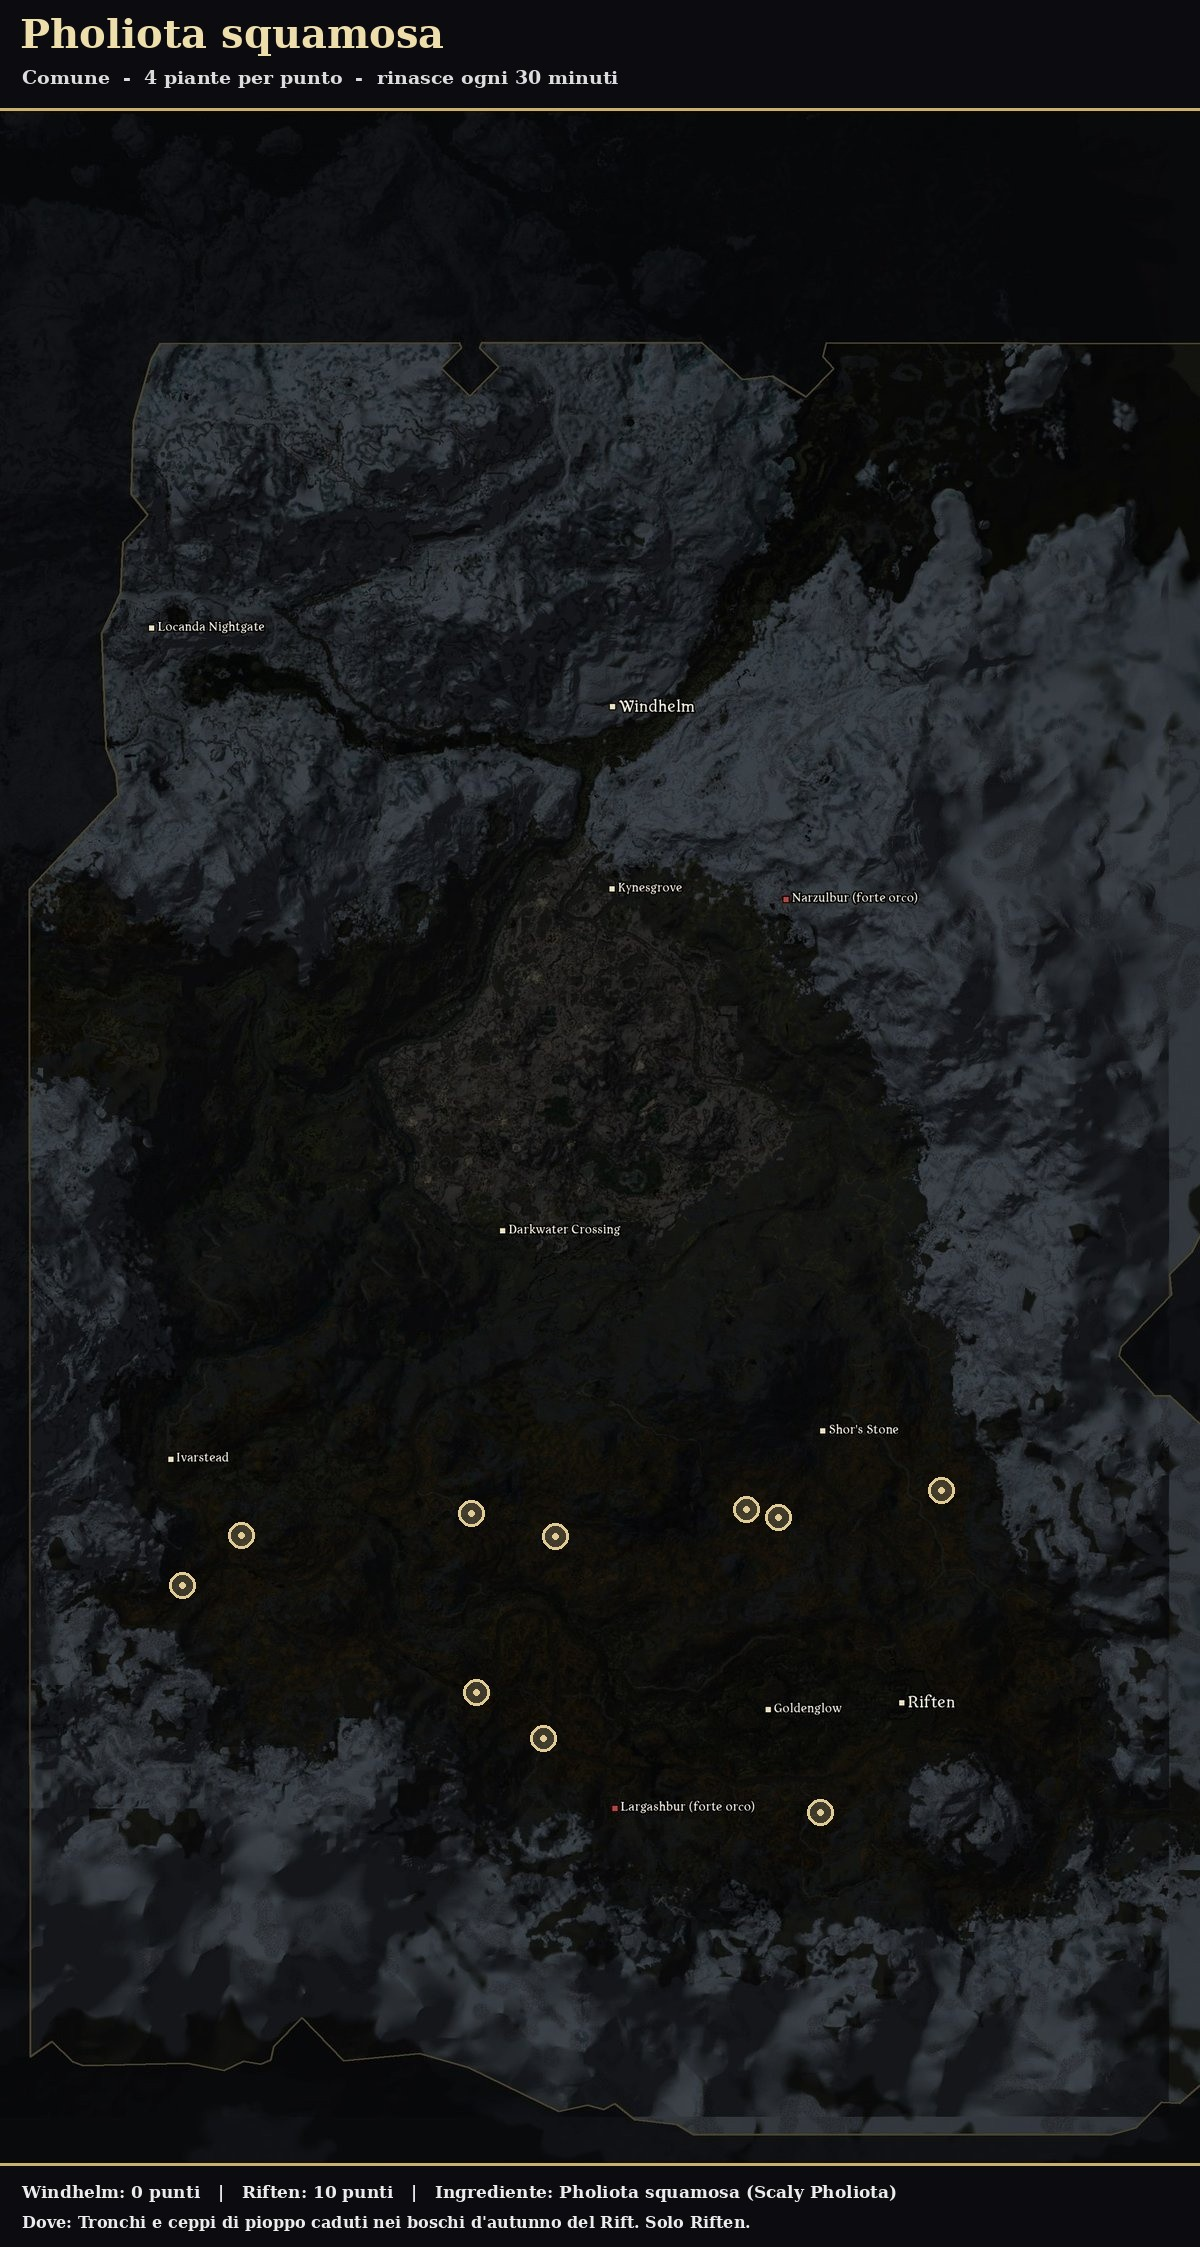
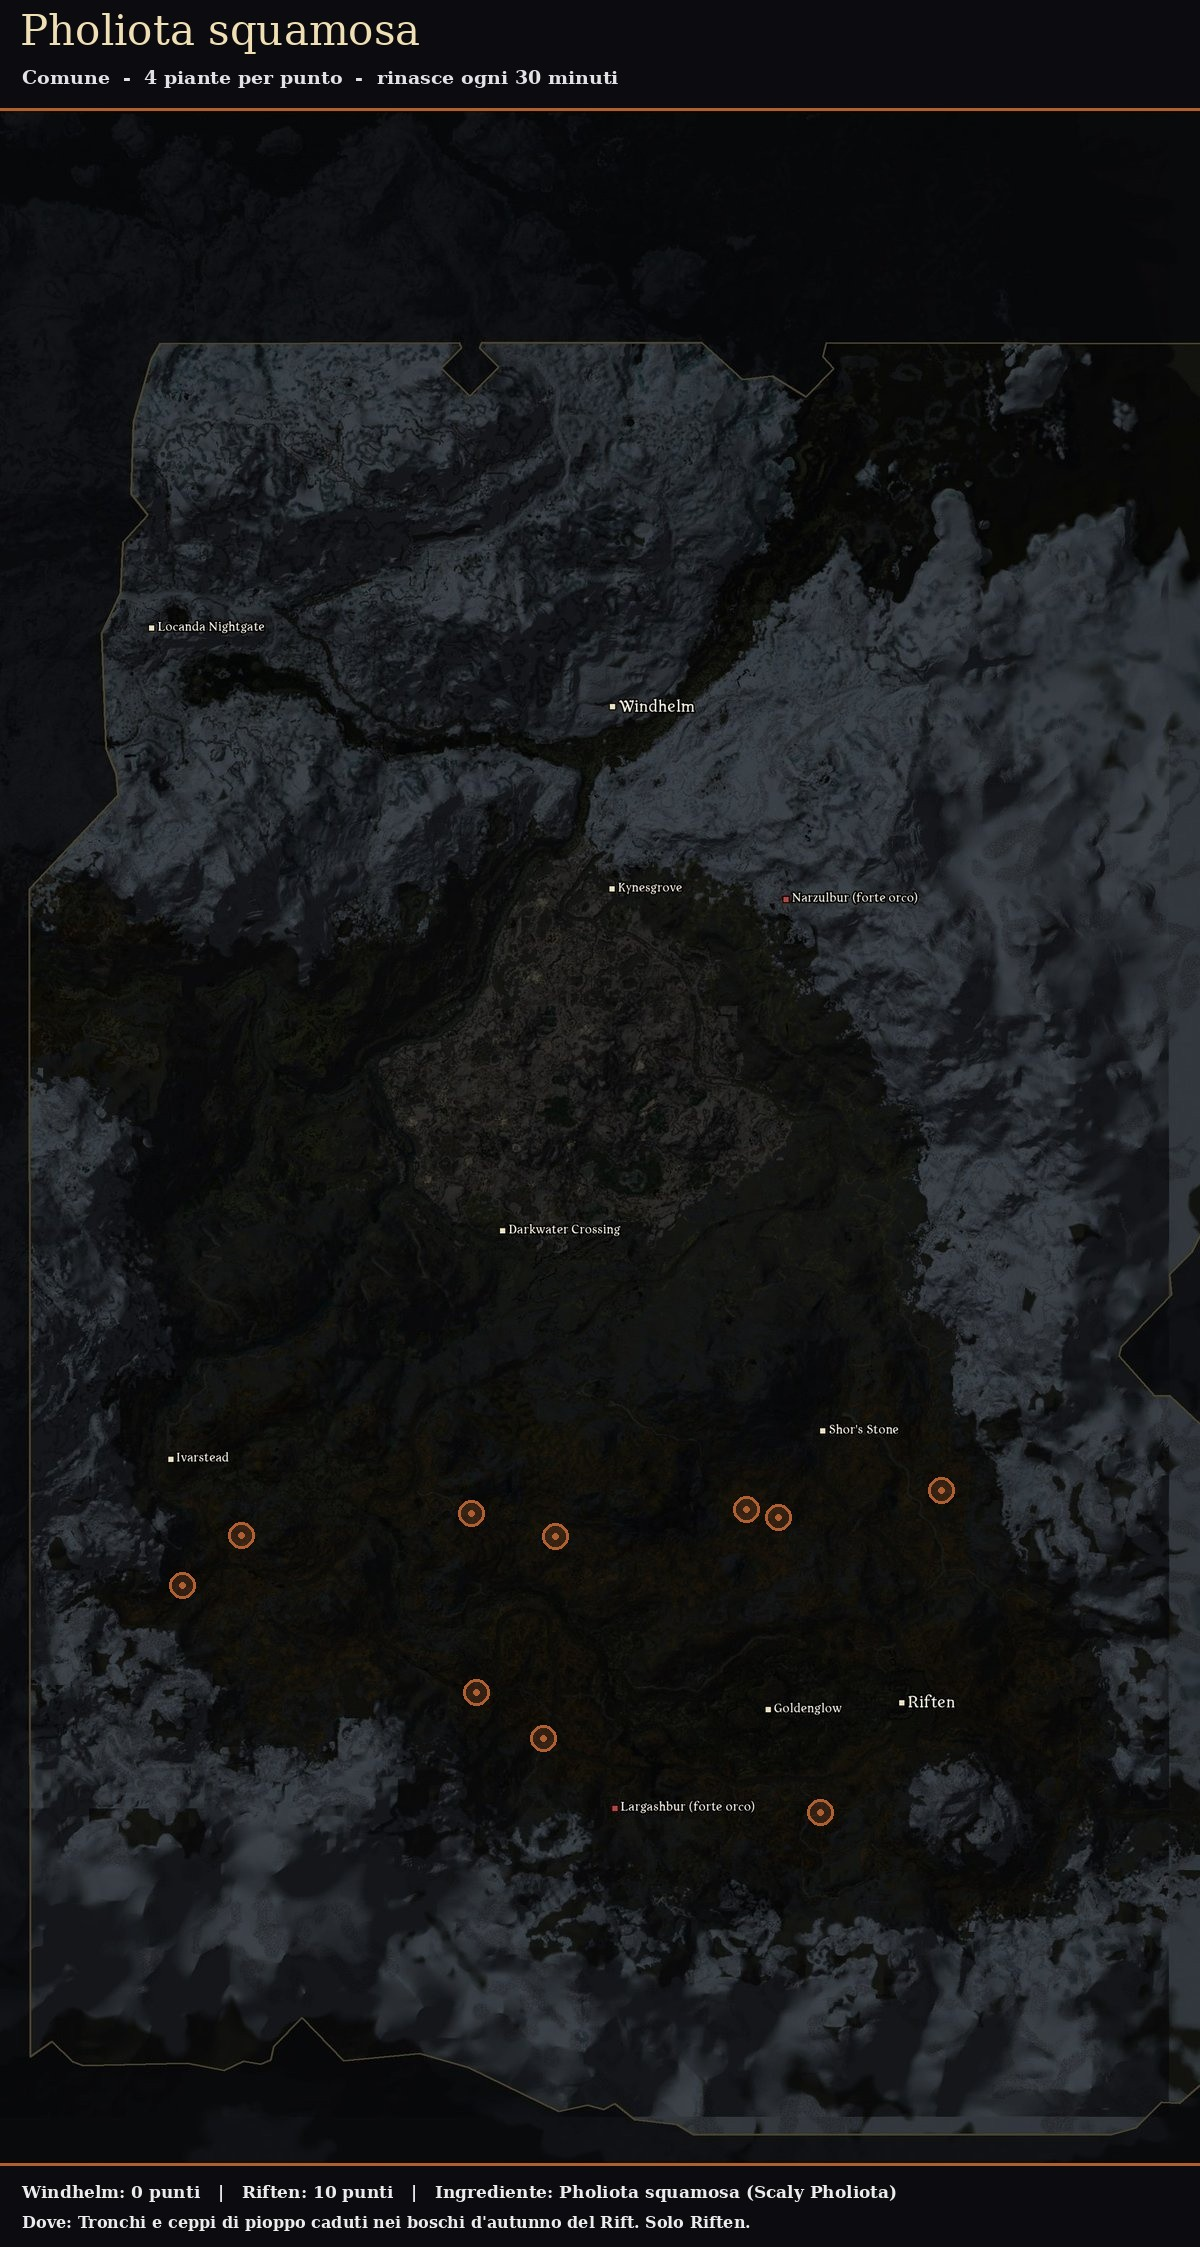
.

diff --git a/team/david/db/tools/disegna_mappe_ingredienti.py b/team/david/db/tools/disegna_mappe_ingredienti.py
@@ -1,4 +1,4 @@
-"""Disegna le mappe degli spawn degli ingredienti, nello stile di team/davide/mappe-spawn.
+"""Disegna le mappe degli spawn degli ingredienti, nello stesso stile di team/davide/mappe-spawn.
 
 Uso (dalla cartella tools/):
     python3 disegna_mappe_ingredienti.py ../../../..
@@ -8,6 +8,10 @@ Legge team/david/db/ingredient_spawns.json e la mappa di base team/david/mappe-i
   - NN_<ingrediente>.jpg   una mappa per ingrediente (rare e leggendarie con la fascia "SOLO STAFF")
   - 00_tutti_pubblica.jpg  comuni e non comuni (si può mettere sul Discord)
   - 00_tutti_staff.jpg     tutti, rare e leggendarie comprese (solo staff)
+
+Stile come le mappe degli animali: ogni ingrediente ha il suo colore (COLORI qui sotto), usato per le
+due righe orizzontali e per i cerchi; nelle mappe riassuntive ogni ingrediente ha il suo colore e
+la legenda in basso.
 Conversione coordinate di gioco -> pixel: ricavata dai cerchi delle mappe di Davide (errore < 1 pixel).
 """
 import json
@@ -24,12 +28,39 @@ AX = (0.0075337978, -405.086725)      # pixel x = AX0 * x + AX1
 AY = (-0.0075349935, 974.432132)      # pixel y = AY0 * y + AY1
 W, H, HEAD, FOOT = 1200, 2247, 108, 2164
 BG = (12, 11, 16)
-GOLD = (200, 176, 114)
-RING = (225, 204, 151)
-TITLE = (238, 222, 172)
+TITLE = (240, 223, 180)               # titolo color crema, come Davide
+SUB = (226, 226, 228)
 TEXT = (236, 236, 236)
-RAR = {"comune": ((225, 204, 151), "Comune"), "non_comune": ((110, 200, 190), "Non comune"),
-       "rara": ((190, 140, 230), "Rara"), "leggendaria": ((235, 90, 80), "Leggendaria")}
+GREY = (170, 170, 175)
+
+# un colore per ingrediente (se possibile, il colore della pianta vera)
+COLORI = {
+    "blue_mountain_flower": (70, 140, 255),
+    "red_mountain_flower": (240, 60, 60),
+    "purple_mountain_flower": (165, 85, 240),
+    "lavender": (215, 180, 255),
+    "tundra_cotton": (245, 245, 245),
+    "thistle_branch": (255, 110, 200),
+    "snowberries": (140, 230, 255),
+    "juniper_berries": (60, 180, 115),
+    "jazbay_grapes": (185, 55, 115),
+    "dragons_tongue": (255, 140, 30),
+    "canis_root": (200, 160, 120),
+    "scaly_pholiota": (175, 95, 50),
+    "wheat": (245, 220, 120),
+    "mora_tapinella": (160, 210, 60),
+    "glowing_mushroom": (0, 230, 195),
+    "white_cap": (160, 160, 170),
+    "imp_stool": (245, 150, 125),
+    "bleeding_crown": (200, 20, 50),
+    "fly_amanita": (255, 200, 0),
+    "blisterwort": (230, 0, 230),
+    "namiras_rot": (120, 255, 0),
+}
+RARITA = {"comune": "Comune", "non_comune": "Non comune", "rara": "Rara", "leggendaria": "Leggendaria"}
+RARITA_PL = {"comune": "Comuni", "non_comune": "Non comuni", "rara": "Rare", "leggendaria": "Leggendarie"}
+ORDINE = list(RARITA)
+
 FONT_B = "/usr/share/fonts/truetype/dejavu/DejaVuSerif-Bold.ttf"
 FONT = "/usr/share/fonts/truetype/dejavu/DejaVuSerif.ttf"
 if not os.path.exists(FONT):
@@ -44,14 +75,17 @@ def px(x, y):
     return AX[0] * x + AX[1], AY[0] * y + AY[1]
 
 
-def base():
-    im = Image.open(os.path.join(OUT, "_mappa_base.jpg")).convert("RGB")
+def base(col, extra=0):
+    """Mappa di base con testata e piè di pagina; extra = pixel in più in basso per la legenda."""
+    m = Image.open(os.path.join(OUT, "_mappa_base.jpg")).convert("RGB")
+    im = Image.new("RGB", (W, H + extra), BG)
+    im.paste(m, (0, 0))
     d = ImageDraw.Draw(im)
     d.rectangle([0, 0, W, HEAD - 1], fill=BG)
-    d.rectangle([0, FOOT + 2, W, H], fill=BG)
-    d.line([0, HEAD + 1, W, HEAD + 1], fill=GOLD, width=3)
-    d.line([0, FOOT, W, FOOT], fill=GOLD, width=3)
-    return im, d
+    d.rectangle([0, FOOT + 2, W, H + extra], fill=BG)
+    d.line([0, HEAD + 1, W, HEAD + 1], fill=col, width=3)
+    d.line([0, FOOT, W, FOOT], fill=col, width=3)
+    return im
 
 
 def marker(d, x, y, col, r=13):
@@ -66,62 +100,82 @@ def staff_band(d):
 
 
 def header(d, title, sub):
-    d.text((20, 10), title, font=f(40), fill=TITLE)
-    d.text((22, 66), sub, font=f(19), fill=(220, 220, 220))
-
-
-def footer(d, l1, l2):
-    d.text((22, 2182), l1, font=f(17), fill=TEXT)
-    d.text((22, 2212), l2, font=f(16), fill=TEXT)
+    d.text((20, 6), title, font=f(42, bold=False), fill=TITLE)
+    d.text((22, 66), sub, font=f(19), fill=SUB)
 
 
 def save(im, name):
     im.convert("RGB").save(os.path.join(OUT, name), quality=90)
 
 
+def disegna(im, punti, colore, raggio):
+    over = Image.new("RGBA", im.size, (0, 0, 0, 0))
+    d = ImageDraw.Draw(over)
+    for p in punti:
+        marker(d, p["center"]["x"], p["center"]["y"], colore(p), raggio(p))
+    return Image.alpha_composite(im.convert("RGBA"), over)
+
+
 RESP = lambda m: "solo al riavvio del server" if m == 0 else (f"ogni {m} minuti" if m < 60 else f"ogni {m // 60} or{'a' if m == 60 else 'e'}")
+pn = lambda n: f"{n} punt{'o' if n == 1 else 'i'}"
+ING = {g["id"]: g for g in DATA["ingredients"]}
+mancanti = [g for g in ING if g not in COLORI]
+if mancanti:
+    sys.exit(f"Manca il colore per: {', '.join(mancanti)} (aggiungilo in COLORI)")
 
 # una mappa per ingrediente
 for n, g in enumerate(DATA["ingredients"], start=1):
-    im, d0 = base()
-    over = Image.new("RGBA", im.size, (0, 0, 0, 0))
-    d = ImageDraw.Draw(over)
-    for p in DATA["points"]:
-        if p["ingredient"] == g["id"]:
-            marker(d, p["center"]["x"], p["center"]["y"], RING)
-    im = Image.alpha_composite(im.convert("RGBA"), over)
+    col = COLORI[g["id"]]
+    im = base(col)
+    im = disegna(im, [p for p in DATA["points"] if p["ingredient"] == g["id"]], lambda p: col, lambda p: 13)
     d = ImageDraw.Draw(im)
-    header(d, g["name_it"], f"{RAR[g['rarity']][1]}  -  {g['plants_per_point']} piant{'a' if g['plants_per_point'] == 1 else 'e'} per punto  -  rinasce {RESP(g['respawn_min'])}")
+    header(d, g["name_it"], f"{RARITA[g['rarity']]}  -  {g['plants_per_point']} piant{'a' if g['plants_per_point'] == 1 else 'e'} per punto  -  rinasce {RESP(g['respawn_min'])}")
     if not g["public_map"]:
         staff_band(d)
-    pn = lambda n: f"{n} punt{'o' if n == 1 else 'i'}"
-    footer(d, f"Windhelm: {pn(g['points_windhelm'])}   |   Riften: {pn(g['points_riften'])}   |   Ingrediente: {g['name_it']} ({g['name_en']})",
-           f"Dove: {g['lore']}")
+    d.text((22, 2182), f"Windhelm: {pn(g['points_windhelm'])}   |   Riften: {pn(g['points_riften'])}   |   Ingrediente: {g['name_it']} ({g['name_en']})", font=f(17), fill=TEXT)
+    d.text((22, 2212), f"Dove: {g['lore']}", font=f(16), fill=TEXT)
     save(im, f"{n:02d}_{g['id']}.jpg")
 
-# mappe riassuntive
+# mappe riassuntive: un colore per ingrediente + legenda
+RIGA, COL_W = 27, 292
 for name, keep, staff in (("00_tutti_pubblica.jpg", ("comune", "non_comune"), False),
                           ("00_tutti_staff.jpg", ("comune", "non_comune", "rara", "leggendaria"), True)):
-    im, _ = base()
-    over = Image.new("RGBA", im.size, (0, 0, 0, 0))
-    d = ImageDraw.Draw(over)
-    pts = [p for p in DATA["points"] if p["rarity"] in keep]
-    for p in sorted(pts, key=lambda p: list(RAR).index(p["rarity"])):
-        marker(d, p["center"]["x"], p["center"]["y"], RAR[p["rarity"]][0], r=9 if p["rarity"] in ("comune", "non_comune") else 12)
-    im = Image.alpha_composite(im.convert("RGBA"), over)
+    ingr = [g for g in DATA["ingredients"] if g["rarity"] in keep]
+    # colonne della legenda: ogni gruppo di rarità ha il suo titoletto, massimo 7 voci per colonna
+    # comuni su più colonne; rare e leggendarie insieme nell'ultima
+    colonne = []
+    for r in keep:
+        gruppo = [g for g in ingr if g["rarity"] == r]
+        for i in range(0, len(gruppo), 7):
+            col = [("titolo", RARITA_PL[r] if i == 0 else "")] + [("voce", g) for g in gruppo[i:i + 7]]
+            if r == "leggendaria" and colonne:
+                colonne[-1] += col
+            else:
+                colonne.append(col)
+    righe = max(len(c) for c in colonne)
+    extra = FOOT + 16 + righe * RIGA + 38 - H
+    im = base((200, 176, 114), extra)
+    pts = sorted((p for p in DATA["points"] if p["rarity"] in keep), key=lambda p: ORDINE.index(p["rarity"]))
+    im = disegna(im, pts, lambda p: COLORI[p["ingredient"]], lambda p: 9 if p["rarity"] in ("comune", "non_comune") else 13)
     d = ImageDraw.Draw(im)
     header(d, "Ingredienti", "Piante e funghi raccoglibili  -  " + ("tutti i punti" if staff else "comuni e non comuni"))
     if staff:
         staff_band(d)
-    x = 22
-    for r in keep:
-        col, lab = RAR[r]
-        d.ellipse([x, 2186, x + 14, 2200], fill=col)
-        cnt = sum(1 for p in pts if p["rarity"] == r)
-        t = f"{lab}: {cnt} punti"
-        d.text((x + 22, 2193), t, font=f(17), fill=TEXT, anchor="lm")
-        x += 50 + d.textlength(t, font=f(17))
+    y0 = FOOT + 16
+    for ci, col in enumerate(colonne):
+        x = 22 + ci * COL_W
+        for ri, (tipo, v) in enumerate(col):
+            y = y0 + ri * RIGA + RIGA / 2
+            if tipo == "titolo":
+                d.text((x, y), v, font=f(15), fill=GREY, anchor="lm")
+            else:
+                c = COLORI[v["id"]]
+                d.ellipse([x, y - 8, x + 16, y + 8], fill=tuple(int(k * 0.35) for k in c), outline=c, width=2)
+                d.ellipse([x + 6, y - 2, x + 10, y + 2], fill=c)
+                cnt = v["points_windhelm"] + v["points_riften"]
+                d.text((x + 24, y), f"{v['name_it']}  {cnt}", font=f(16), fill=TEXT, anchor="lm")
     w = sum(1 for p in pts if p["hold"] == "Windhelm")
-    footer(d, "", f"Windhelm: {w} punti   |   Riften: {len(pts) - w} punti   |   Una mappa per ingrediente nella stessa cartella")
+    d.text((22, y0 + righe * RIGA + 4), f"Windhelm: {pn(w)}   |   Riften: {pn(len(pts) - w)}   |   Numero accanto al nome = punti sulla mappa",
+           font=f(16), fill=TEXT)
     save(im, name)
 print("mappe scritte in", OUT)

diff --git a/team/david/spawn_ingredienti.md b/team/david/spawn_ingredienti.md
@@ -75,6 +75,8 @@ Per cambiare numeri, rarità o regole: si modifica `build_ingredienti_spawn.py`,
 - `00_tutti_staff.jpg`: tutti i punti. **Solo staff.**
 - `01`…`21`: una mappa per ingrediente, come quelle degli animali di Davide. Quelle di rare e leggendarie (18–21) hanno la fascia rossa "SOLO STAFF".
 
+Stile identico alle mappe degli animali sul Discord: ogni ingrediente ha il suo colore (righe sotto il titolo e sopra il piè di pagina, cerchi). Nelle due mappe riassuntive ogni ingrediente ha il suo colore, con la legenda in basso divisa per rarità e il numero di punti. I colori sono in `COLORI` dentro `disegna_mappe_ingredienti.py`.
+
 La mappa di base è ricostruita dalle mappe di Davide (togliendo i cerchi); la conversione da coordinate di gioco a pixel è ricavata dai suoi cerchi, con errore sotto il pixel.
 
 ## 5. Come si prova in gioco
